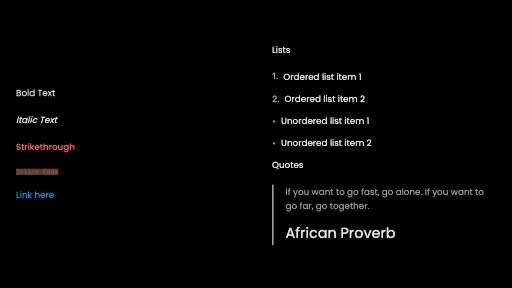
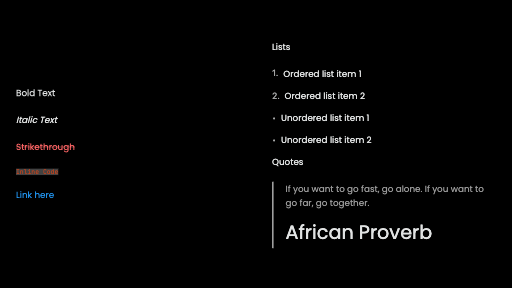
Further adjustments

diff --git a/lib/components/organisms/app_shell.dart b/lib/components/organisms/app_shell.dart
@@ -37,7 +37,7 @@ class _ScaffoldWithNavBarState extends State<ScaffoldWithNavBar>
     super.initState();
     _animationController = AnimationController(
       vsync: this,
-      duration: Durations.medium4,
+      duration: Durations.short3,
     );
     _animation = CurvedAnimation(
       parent: _animationController,
@@ -128,34 +128,34 @@ class _ScaffoldWithNavBarState extends State<ScaffoldWithNavBar>
     );
 
     //  if screen small return a bottom bar navigation simila to the navigationRail
-    final smallNavigation = BottomNavigationBar(
-      currentIndex: widget.navigationShell.currentIndex,
-      showUnselectedLabels: false,
-      showSelectedLabels: false,
-      onTap: onTap,
-      items: SideMenu.values.map(
-        (e) {
-          return BottomNavigationBarItem(
-            icon: Icon(e.icon),
-            label: e.label,
-          );
-        },
-      ).toList(),
-    );
+    // final smallNavigation = BottomNavigationBar(
+    //   currentIndex: widget.navigationShell.currentIndex,
+    //   showUnselectedLabels: false,
+    //   showSelectedLabels: false,
+    //   onTap: onTap,
+    //   items: SideMenu.values.map(
+    //     (e) {
+    //       return BottomNavigationBarItem(
+    //         icon: Icon(e.icon),
+    //         label: e.label,
+    //       );
+    //     },
+    //   ).toList(),
+    // );
 
     // Add bottom bar later
-    final bottomNavBar = isSmall
-        ? AnimatedBuilder(
-            animation: _animation,
-            builder: (context, child) {
-              return SizeTransition(
-                sizeFactor: _animation,
-                axis: Axis.vertical,
-                child: smallNavigation,
-              );
-            },
-          )
-        : null;
+    // final bottomNavBar = isSmall
+    //     ? AnimatedBuilder(
+    //         animation: _animation,
+    //         builder: (context, child) {
+    //           return SizeTransition(
+    //             sizeFactor: _animation,
+    //             axis: Axis.vertical,
+    //             child: smallNavigation,
+    //           );
+    //         },
+    //       )
+    //     : null;
 
     final sideNavBar = !isSmall
         ? AnimatedBuilder(

diff --git a/lib/helpers/slide_to_image.dart b/lib/helpers/slide_to_image.dart
@@ -23,7 +23,7 @@ enum ExportQuality {
   final double pixelRatio;
 }
 
-final Map<String, Uint8List> _imageCache = {};
+// final Map<String, Uint8List> _imageCache = {};
 //  Create a simple cache class that also stores the image in application folder
 //  to avoid generating the image again
 
@@ -61,10 +61,6 @@ class ImageCacheService {
   }
 
   Future<void> set(Uint8List image) async {
-    _imageCache.removeWhere((key, value) => key.contains(slide.hashKey));
-
-    _imageCache[cacheKey] = image;
-
     if (kCanRunProcess) {
       final file = _getAssetFile();
 
@@ -73,13 +69,6 @@ class ImageCacheService {
     }
 
     throw Exception('Cannot cache image on the web');
-  }
-
-  Uint8List? getMemory() {
-    if (_imageCache.containsKey(cacheKey)) {
-      return _imageCache[cacheKey];
-    }
-    return null;
   }
 
   Future<Uint8List?> get() async {
@@ -206,7 +195,6 @@ class ImageGenerationService {
         break;
       }
 
-      await _waitForImagesLoaded(rootElement);
       // await Future.delayed(Durations.short2);
 
       retryCount--;
@@ -230,6 +218,7 @@ class ImageGenerationService {
     buildOwner.buildScope(rootElement);
     buildOwner.finalizeTree();
 
+    await _waitForImagesLoaded(rootElement);
     pipelineOwner.flushLayout();
     pipelineOwner.flushCompositingBits();
     pipelineOwner.flushPaint();

diff --git a/lib/screens/export_screen.dart b/lib/screens/export_screen.dart
@@ -12,6 +12,7 @@ import '../../helpers/constants.dart';
 import '../../models/slide_model.dart';
 import '../components/atoms/linear_progresss_indicator_widget.dart';
 import '../components/atoms/slide_view.dart';
+import '../components/molecules/scaled_app.dart';
 import '../helpers/slide_to_image.dart';
 import '../superdeck.dart';
 
@@ -307,7 +308,7 @@ class _ExportingProcessScreenState extends State<ExportingProcessScreen> {
               controller: _pageController,
               itemCount: _images.length,
               itemBuilder: (context, index) {
-                return SlideView(_slides[index]);
+                return ScaledWidget(child: SlideView(_slides[index]));
               },
             ),
           ),

diff --git a/lib/components/molecules/slide_preview.dart b/lib/components/molecules/slide_preview.dart
@@ -64,14 +64,11 @@ class SlideMarkdownPreview extends StatelessWidget {
       ),
       builder: (mix) {
         return SlideConstraints((_) {
-          return SingleChildScrollView(
-            padding: const EdgeInsets.all(40.0),
-            child: AnimatedMarkdownViewer(
-              content: "$options\n$data\n",
-              spec: SlideSpec.of(context),
-              assets: const [],
-              duration: Duration.zero,
-            ),
+          return AnimatedMarkdownViewer(
+            content: "$options\n$data\n",
+            spec: SlideSpec.of(context),
+            assets: const [],
+            duration: Duration.zero,
           );
         });
       },

diff --git a/lib/components/atoms/slide_thumbnail.dart b/lib/components/atoms/slide_thumbnail.dart
@@ -93,21 +93,14 @@ class _SlideThumbnailState extends State<SlideThumbnail> {
 
   Future<void> _generateThumbnail() async {
     try {
-      final asset = imageCache.getMemory();
-
-      if (asset != null) {
-        asyncState.value = AsyncState.data(asset);
-        return;
-      }
-
-      const delay = Durations.short1;
+      const delay = Durations.short2;
       while (_isGenerating) {
         await Future.delayed(delay);
       }
 
       _isGenerating = true;
 
-      await Future.delayed(delay);
+      await Future.delayed(delay * 5);
       final data = await imageGenerator.generate(
         // ignore: use_build_context_synchronously
         context: context,

diff --git a/lib/styles/style_util.dart b/lib/styles/style_util.dart
@@ -24,13 +24,13 @@ Style get defaultStyle => Style.create([
       // $.contentContainer.color(Colors.yellow),
       $.textStyle.as(baseTextStyle),
       $.headings.textStyle.as(headingTextStyle),
-      $.h1.textStyle.fontSize(72),
+      $.h1.textStyle.fontSize(96),
       $.h1.padding.bottom(12),
-      $.h2.textStyle.fontSize(48),
+      $.h2.textStyle.fontSize(72),
       $.h2.padding.bottom(9),
-      $.h3.textStyle.fontSize(36),
+      $.h3.textStyle.fontSize(48),
       $.h3.padding.bottom(6),
-      $.h4.textStyle.fontSize(30),
+      $.h4.textStyle.fontSize(36),
       $.h4.padding.bottom(4),
       $.h5.textStyle.fontSize(24),
       $.h5.padding.bottom(3),

diff --git a/lib/components/molecules/slide_content.dart b/lib/components/molecules/slide_content.dart
@@ -38,6 +38,13 @@ class SlideContent extends StatelessWidget {
       child = SingleChildScrollView(
         child: child,
       );
+    } else {
+      child = Wrap(
+        clipBehavior: Clip.hardEdge,
+        children: [
+          child,
+        ],
+      );
     }
 
     return AnimatedMixedBox(

diff --git a/example/lib/src/style.dart b/example/lib/src/style.dart
@@ -117,7 +117,6 @@ VariantAttribute get coverStyle {
 VariantAttribute get announcementStyle {
   return const SlideVariant('announcement')(
     apply(coverStyle.value),
-    $.innerContainer.color.red(),
     $.textStyle.height(0.6),
     $.h1.textStyle.fontSize(140),
     $.h1.textStyle.bold(),

diff --git a/example/slides.md b/example/slides.md
@@ -14,7 +14,7 @@ content:
 ---
 style: custom
 layout: two_column_header
-background: https://media.giphy.com/media/v1.Y2lkPTc5MGI3NjExc21yZzZhNzQ3bmt4dGk3amE5a2ozaHQxbTdpeGM4bHlmazdibmJjdSZlcD12MV9pbnRlcm5hbF9naWZfYnlfaWQmY3Q9Zw/8L43c9x5Lvl2o/giphy.gif
+background: https://source.unsplash.com/black-and-gray-microphone-on-black-stand-QrqeusbpFMM
 sections:
   header:
     alignment: center
@@ -24,7 +24,7 @@ sections:
 ---
 
  
-# Superdeck
+# Go wild!
 
 ::left::
 ## Beautiful Flutter presentations with Markdown
@@ -312,3 +312,28 @@ Table
 Divider
 
 ___
+
+
+
+---
+title: "Mermaid example"
+layout: two_column
+---
+
+::left::
+
+```mermaid
+flowchart TD
+    A[This is crazy] -->|Get money| B(Go shopping)
+    B --> C{Let me think}
+    C -->|One| D[Laptop]
+    C -->|Two| E[iPhone]
+    C -->|Three| F[fa:fa-car Car]
+```
+  
+
+::right::
+
+## Mermaid Support
+
+Superdeck allows you to use Mermaid diagrams in your slides. It automatically converts the code into a visual representation.
